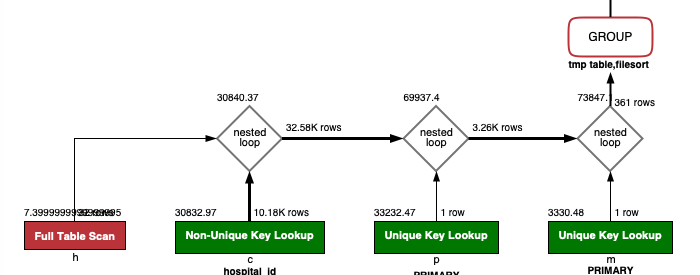
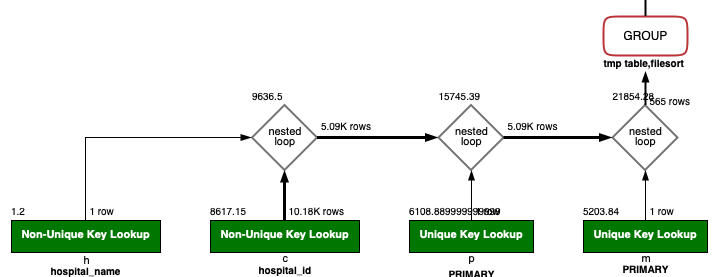
docs: 4번째 쿼리에 대한 결과 작성

Changed region(s): [[0.0, 0.0, 0.99, 1.0]]

diff --git a/README.md b/README.md
@@ -147,65 +147,101 @@ $ stress -c 2
 - 활동중인(Active) 부서의 현재 부서관리자 중 연봉 상위 5위안에 드는 사람들이 최근에 각 지역별로 언제 퇴실했는지 조회해보세요. (사원번호, 이름, 연봉, 직급명, 지역, 입출입구분, 입출입시간)
 
 ---
+---
 
 ### 2단계 - 인덱스 설계
 
 1. 인덱스 적용해보기 실습을 진행해본 과정을 공유해주세요
     1. key, foreign key 매핑하기
-       1. alter table covid add primary key (id);
-       2. alter table hospital add primary key(id);
-       3. alter table programmer add primary key(id);
-       4. alter table hospital modify column id bigint(20);
-       5. alter table covid add foreign key(hospital_id) references hospital(id);
-       6. alter table covid add foreign key(programmer_id) references programmer(id);
-   
-    2. 프로그래머별로 해당하는 병원 이름을 반환하세요. (covid.id, hospital.name)
+       ```
+       alter table covid add primary key (id);
+       alter table hospital add primary key(id);
+       alter table programmer add primary key(id);
+       alter table hospital modify column id bigint(20);
+       alter table covid add foreign key(hospital_id) references hospital(id);
+       alter table covid add foreign key(programmer_id) references programmer(id);
+       ```
+
+    3. 프로그래머별로 해당하는 병원 이름을 반환하세요. (covid.id, hospital.name)
        1. 일단 조회하기(4.14sec)
+          ```
           select c.programmer_id, h.name from hospital as h
               join covid as c on c.hospital_id = h.id
               join programmer as p on c.programmer_id = p.id;
-       2. indexing 후 쿼리(0.0053sec)
+          ```
+       2. indexing설정 내역 및 설정 후 쿼리 속도(0.0053sec)
           1. 각 테이블 별 기본키 / 외래키 설정을 통한 자동 인덱싱
        3. 개선 전 실행계획
-          [img](/readmeSource/step4/개선전_1.png)
-       4. 
 
+          ![img.png](./readmeSource/step4/개선전_1.png)
+       4. 개선 후 실행계획
+       
+          ![img.png](./readmeSource/step4/개선후_1.png)
+          1. covid - hospital foreign key 에 의한 indexing
+          2. hospital primary key 에 대한 indexing
 
-    3. 프로그래밍이 취미인 학생 혹은 주니어(0-2년)들이 다닌 병원 이름을 반환하고 user.id 기준으로 정렬하세요. (covid.id, hospital.name, user.Hobby, user.DevType, user.YearsCoding) 
+    4. 프로그래밍이 취미인 학생 혹은 주니어(0-2년)들이 다닌 병원 이름을 반환하고 user.id 기준으로 정렬하세요. (covid.id, hospital.name, user.Hobby, user.DevType, user.YearsCoding) 
        1. 일단 조회하기(조회불가)
           1. 특이사항 : 시작 모수를 programmer가 아닌 covid를 driving table로 설정시, 시작 모수가 많아 executing시간이 1분을 넘어간다.
+       ```
        select c.id, h.name, p.hobby, p.dev_type, p.years_coding  from programmer as p    -- and (years_coding = "0-2 years" or (student in ("Yes, part-time", "Yes, full-time")) and
            join covid as c on (c.programmer_id is not null and hobby = "Yes" and (years_coding = "0-2 years" or (student in ("Yes, part-time", "Yes, full-time"))) and p.id = c.programmer_id)
            join hospital as h on h.id = c.hospital_id
            order by c.programmer_id;
-       2. indexing 후 쿼리 (0.304sec)
+       ```
+       2. indexing설정 내역 및 설정 후 쿼리 속도 (0.304sec)
           1. 각 테이블 별 기본키 / 외래키 설정을 통한 자동 인덱싱
-          
-    4. 서울대병원에 다닌 20대 India 환자들을 병원에 머문 기간별로 집계하세요. (covid.Stay)
+       3. 개선전 실행계획(추출불가)
+       4. 개선 후 실행계획
+          ![img.png](./readmeSource/step4/개선후_2.png)
+          1. programmer의 Hobby에 대한 indexing 
+          2. covid - programmer foreign key에 의한 indexing
+          3. covid - hospital foreign key 에 의한 indexing
+       
+    5. 서울대병원에 다닌 20대 India 환자들을 병원에 머문 기간별로 집계하세요. (covid.Stay)
        1. 일단 조회하기(조회불가)
+       ```
        select c.stay, count(c.stay) from covid as c where
           c.hospital_id = (select id from hospital where name = "서울대병원")
           and programmer_id in (select id from programmer where country = "India")
           and member_id in (select id from member where age >= 20 and age <= 29)
           group by c.stay;
-       2. indexing 후 쿼리(0.073sec)
+       ```
+       2. indexing설정 내역 및 설정 후 쿼리 속도(0.073sec)
           1. 각 테이블 별 기본키 / 외래키 설정을 통한 자동 인덱싱
-          2. create index programmer_country on subway.programmer(id, country);
+          ```
+          create index programmer_country on subway.programmer(id, country);
              create index member_age on subway.member(id, age);
+          ```
+       3. 개선 전 실행계획(추출불가)
+       4. 개선 후 실행계획
+          ![img.png](./readmeSource/step4/개선후_3.png)
+          1. hospital의 name에 대한 indexing
+          2. programmer의 primary key에 대한 indexing
+          3. member의 primary key에 대한 indexing 
        
-    5. 서울대병원에 다닌 30대 환자들을 운동 횟수별로 집계하세요. (user.Exercise)
+    6. 서울대병원에 다닌 30대 환자들을 운동 횟수별로 집계하세요. (user.Exercise)
        1. 일단 조회하기(0.495sec)
+       ```
           select exercise, count(exercise) from programmer as p
               where p.id in (select programmer_id from covid where hospital_id in (select id from hospital where name = "서울대병원"))
               and p.id in (select id from member where age >= 30 and age <= 39)
               group by exercise;
-       2. indexing후 쿼리(0.055sec)
-          1. create index member_id_age on subway.member(id, age); -> age의 범위로 찾기위해 인덱싱. 효율적인 탐색을 위해 key값 인덱스에 추가
-             create index programmer_id on subway.programmer(id);  -> 데이터가 많은 covid 테이블에, join key로 사용되는 programmer_id 추가 
-             create index programmer_exercise on subway.programmer(exercise); -> groupby 조건은 indexing을 하는것이 효율적이다.
+       ```
+       2. indexing설정 내역 및 설정 후 쿼리 속도(0.055sec)
+       ```
+          create index member_id_age on subway.member( age);
+       ```
+       3. 개선 전 실행계획(추출불가)
+       4. 개선 후 실행계획
+          ![img.png](./readmeSource/step4/개선후_4.png)
+          1. hospital의 name에 대한 indexing
+          2. programmer의 primary key에 대한 indexing
+          3. member의 primary key에 대한 indexing
 
 
-    6. 
+
+
 ---
 
 ### 추가 미션
